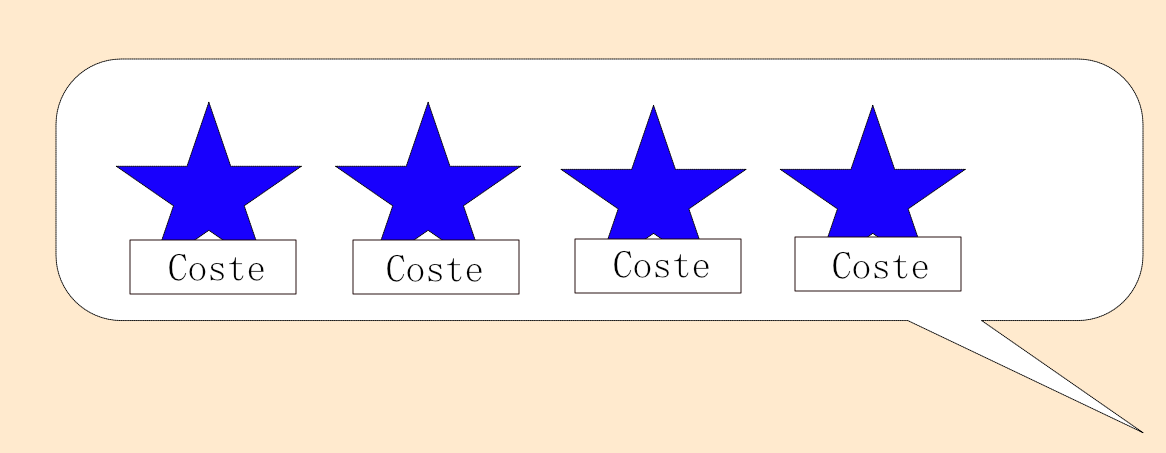
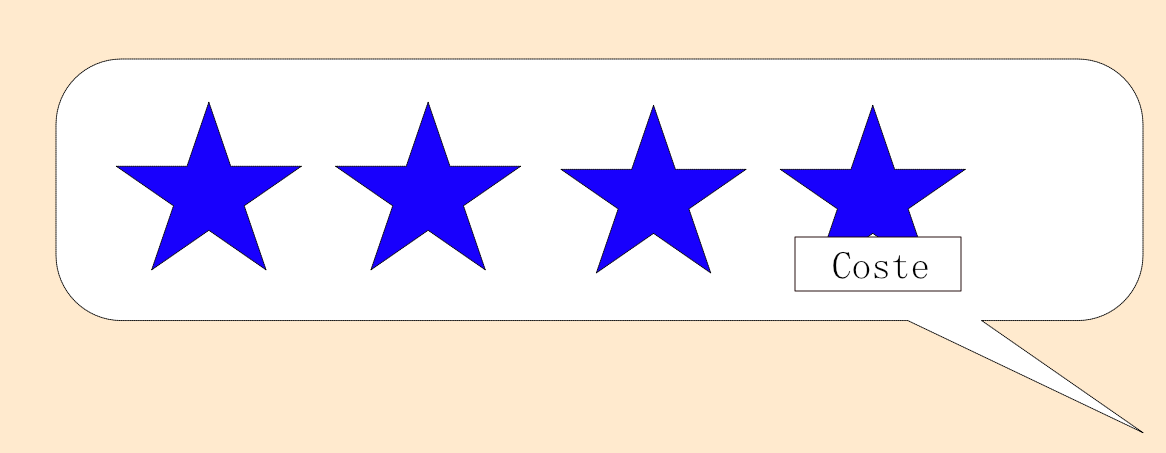
últimas especificaciones de la tienda

Changed region(s): [[0.494, 0.5254, 0.6484, 0.649], [0.3087, 0.5254, 0.4631, 0.649], [0.0926, 0.5254, 0.247, 0.6181]]

diff --git a/gdd.md b/gdd.md
@@ -89,7 +89,14 @@ En las salas de tienda, un pájaro antropomórfico mercader le dará la opción 
 
 Cada animal antropomórfico tendrá distintas estadísticas, vida, ataque y rango de ataque. La vida y el ataque se muestran debajo del animal cuando se cliquea al animal. Cuando se pasa el cursor por encima se muestra el precio del guerrero.
 
+
 ![Tienda](./imagenes/tienda_2.png)
+*Representación visual de cómo se muestran los guerreros en la tienda al pasar el cursor por encima del último.*
+
+![Tienda](./imagenes/tienda_3.png)
+*Representación visual de cómo se muestran los guerreros en la tienda al cliquear el último.*
+
+
 
 También se va a ofrecer la compra de objetos para la mejora de las estadísticas de los integrantes, sea aumento de vida o de ataque o ambas.
 
@@ -110,6 +117,7 @@ Cuando el jugador intente comprar aliados con su ejercito lleno aparecerá un me
 *//parámetros provisionales*
 
 ![Tienda](./imagenes/tienda_1.png)
+*Representación simbólica de la tienda.*
 
 Además de la compra de los animales y objetos también se podrá vender sus aliados por el precio de la mitad del que ha comprado, pero no podrás vender cuando solo tengas un aliado en el ejercito.
 Para poder vender, el jugador tendrá que seleccionar al aliado a vender desde el DOM y se mostrará en la pantalla del juego el precio que obtendrá si se vende al aliado y dos botones donde se podrá aceptar la venta ("Vender") o cancelar la venta ("Cancelar"). No se puede vender varios animales a la vez y al vender se elimina el aliado del DOM del jugador.
